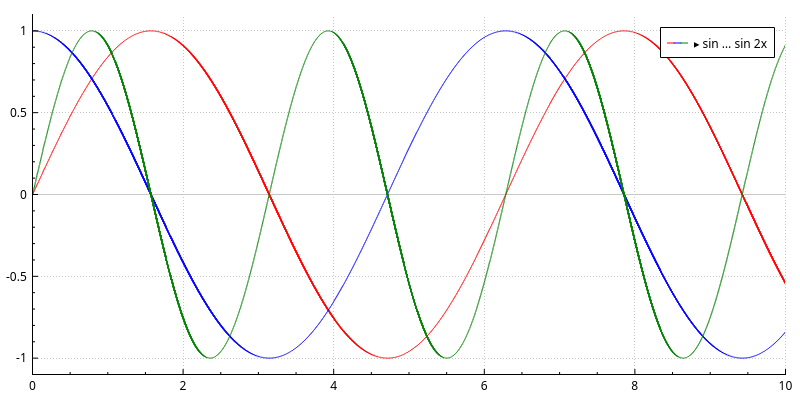
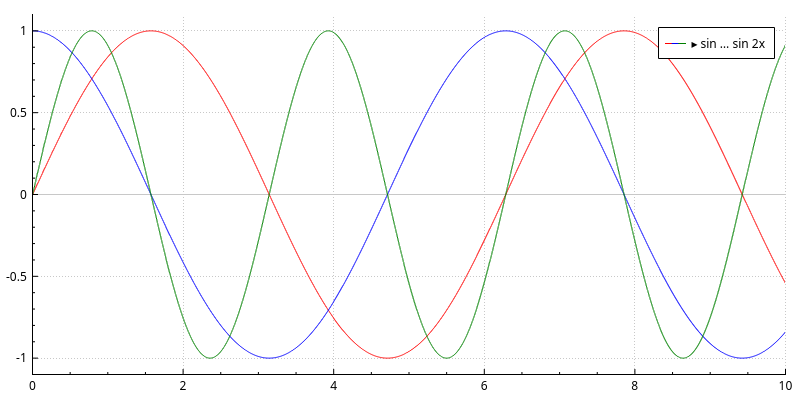
docs(guide): spectrogram, colour data and projection screenshots
The fixes these waited for are in: lines no longer zigzag, the
spectrogram is drawn at full resolution, one-column lines take colour
data and N-D projection plots export. All 18 images regenerated and
checked by eye.

diff --git a/docs/make_screenshots.py b/docs/make_screenshots.py
@@ -26,7 +26,7 @@ from SciQLopPlots import SciQLopGraphInterface
 DOCS = pathlib.Path(__file__).resolve().parent
 GUIDE = DOCS / "user-guide.md"
 SHOT = re.compile(r"```python\n((?:(?!```).)*)```\s*\n!\[[^\]]*\]\(([^)]+)\)", flags=re.S)
-SIZES = {"SciQLopMultiPlotPanel": (800, 600)}
+SIZES = {"SciQLopMultiPlotPanel": (800, 600), "SciQLopNDProjectionPlot": (900, 320)}
 DEFAULT_SIZE = (800, 400)
 
 

diff --git a/docs/user-guide.md b/docs/user-guide.md
@@ -166,6 +166,8 @@ cmap.set_y_log_scale(True)
 cmap.set_z_log_scale(True)
 ```
 
+![A spectrogram on log y and colour scales](images/colormap.png)
+
 `z` has one row per `x` value and one column per `y` value. `y` may also have `z`'s shape, when the y channels change over time (a varying energy table, for example).
 
 On a log colour scale, pixels that cover several samples are averaged in log space. So zoomed-out spectrograms look like the zoomed-in ones.
@@ -292,6 +294,8 @@ graph = plot.plot(x, np.sin(x), labels=["sin"])
 graph.set_color_data(np.cos(x), ColorGradient.Plasma)   # one value per x sample
 ```
 
+![A sine coloured by cosine, with its colour scale](images/color-data.png)
+
 The plot shows a colour scale for it. Pass an empty array to go back to a plain line.
 
 A data function can send the colour values with each batch:
@@ -309,8 +313,6 @@ graph = plot.plot(speed_coloured, labels=["position"])
 graph.set_color_gradient(ColorGradient.Turbo)
 plot.x_axis().set_range(0, 20)
 ```
-
-![A sine coloured by a third quantity, with its colour scale](images/color-data.png)
 
 ## Time series
 
@@ -608,6 +610,8 @@ proj = SciQLopNDProjectionPlot(3)
 orbit = proj.add_reference_curve([t, x, y, z], label="orbit")   # [time, dims...]
 proj.set_axis_labels(["X", "Y", "Z"])
 ```
+
+![Three 2-D projections of an orbit](images/nd-projection.png)
 
 When the time comes first, the curves are coloured by time, and a time marker can follow a cursor on another plot. Pass only the dimensions (`[x, y, z]`) to skip that.
 
